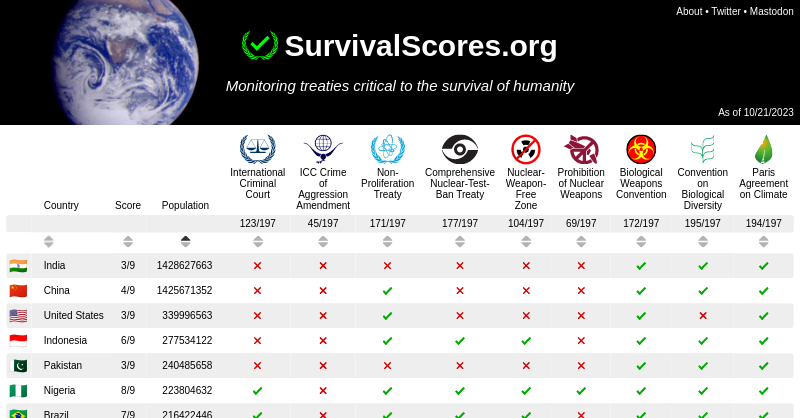
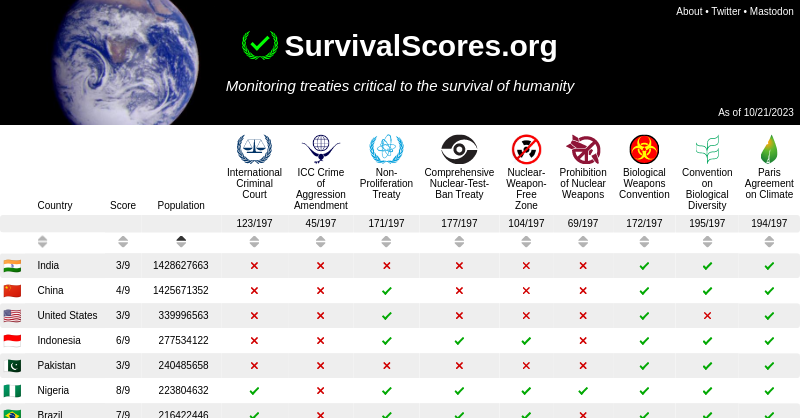
Deploying to gh-pages from @ arthuredelstein/survivalscores.org@9896e4fb5ccc955f7ffd03697d4a864389b956fa 🚀

diff --git a/index.html b/index.html
@@ -50,17 +50,6 @@ td:nth-child(2) {
   left: 30px;
   z-index: 10;
 }
-/*td:nth-child(3) {
-  position: sticky;
-  left: 140px;
-  z-index: 10;
-}
-td:nth-child(4) {
-  position: sticky;
-  left: 200px;
-  z-index: 10;
-}
-*/
 th:nth-child(1) {
   position: sticky;
   left: 0px;
@@ -71,24 +60,12 @@ th:nth-child(2) {
   left: 30px;
   z-index: 20;
 }
-/*
-th:nth-child(3) {
-  position: sticky;
-  left: 140px;
-  z-index: 20;
-}
-th:nth-child(4) {
-  position: sticky;
-  left: 200px;
-  z-index: 20;
-}
-*/
 .table-container {
-  padding: 10px;
+  padding: 0px;
   background-color: white;
   z-index: 20;
   position: relative;
-  top: 200px;
+  top: 210px;
 }
 table tr:first {
   display: flex;
@@ -244,7 +221,7 @@ h1 {
   transform: translate(0px, calc(0.15 * max(min(4vw, 48px), 40px)));
   width: calc(1.2 * max(min(4vw, 48px), 40px));
 }</style>
-  <script>const dataDate = new Date('Sat Oct 21 2023 06:06:35 GMT+0000 (Coordinated Universal Time)');
+  <script>const dataDate = new Date('Sat Oct 21 2023 06:14:36 GMT+0000 (Coordinated Universal Time)');
 
 // Initially will be sorted by population
 let state = { sortedColumn: 1, ascending: true };
@@ -334,7 +311,7 @@ window.addEventListener("DOMContentLoaded", (e) => {
       <li><a href="https://treaties.un.org/Pages/ParticipationStatus.aspx">Multilateral Treaties Deposited with the Secretary-General</a>, United Nations, New York</li>
       <li><a href="https://data.un.org/">UNdata</a>, United Nations Statistics Division</li>
     </ul>
-    Data retrieved at 2023-10-21T06:06:35.025Z
+    Data retrieved at 2023-10-21T06:14:36.466Z
   </div>
 </div>
  </body>
